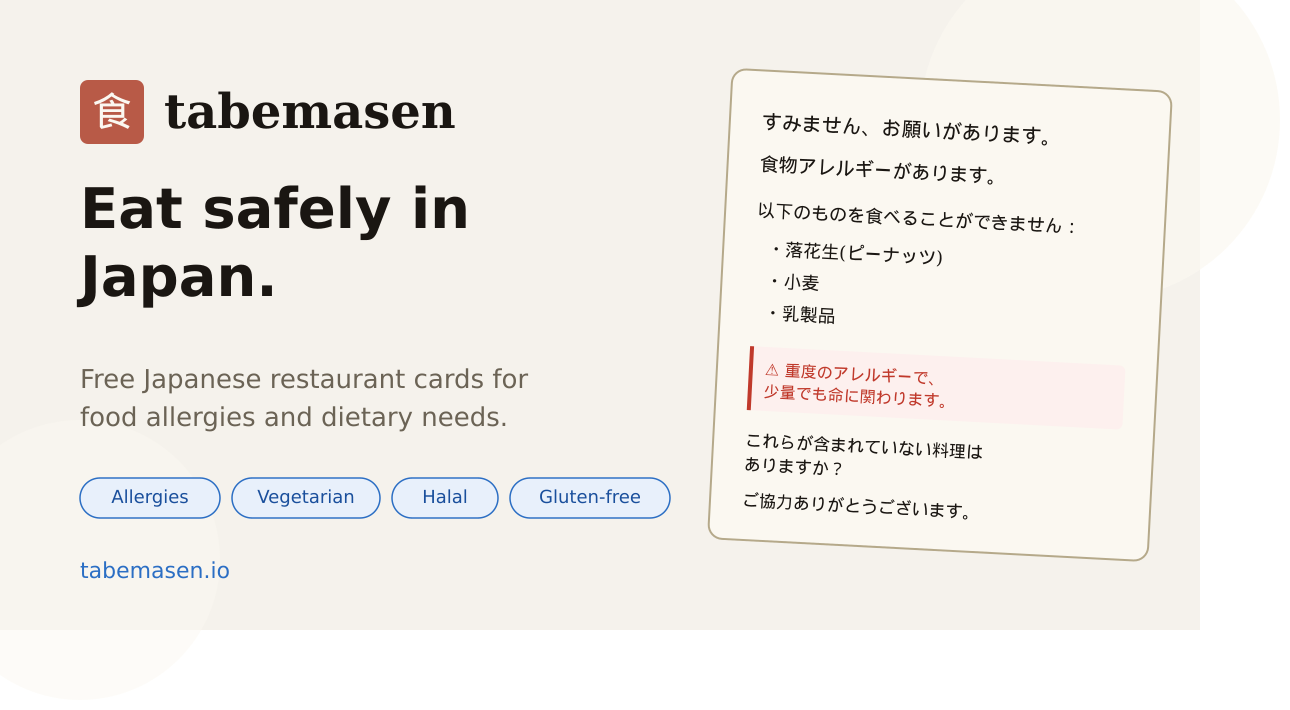
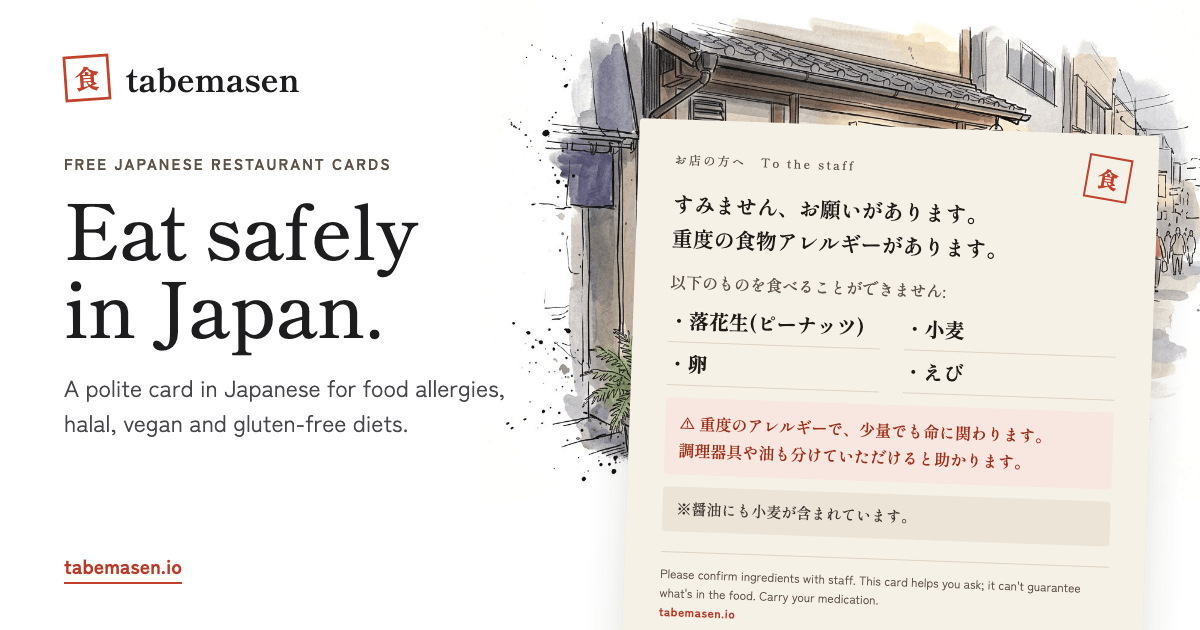
design(seo): link-preview image in the new design
Same URL and meta; 1200x630 (was 1290x710), 120 KB. Rendered from the built
site with the real card renderer by scripts/og-image.mjs.

Claude-Session: https://claude.ai/code/session_01UpttBQPap9JzyZfAZEcyqK

diff --git a/CHANGELOG.md b/CHANGELOG.md
@@ -2,6 +2,7 @@
 
 ## 2026-10-12
 
+- design(seo): the link-preview image (og:image, shared by every page) redrawn in the new design with a real card from the builder; 1200×630 and 120 KB, same URL. Regenerate with scripts/og-image.mjs.
 - chore: the legacy stylesheet (styles.css) and nav script (nav.js) are retired; every page is on the new design.
 - design(about): /about/ and /featured/ in the new design. Every word unchanged.
 - design(celiac): the celiac guide in the new design with a new illustration. Every word, heading and FAQ unchanged.
